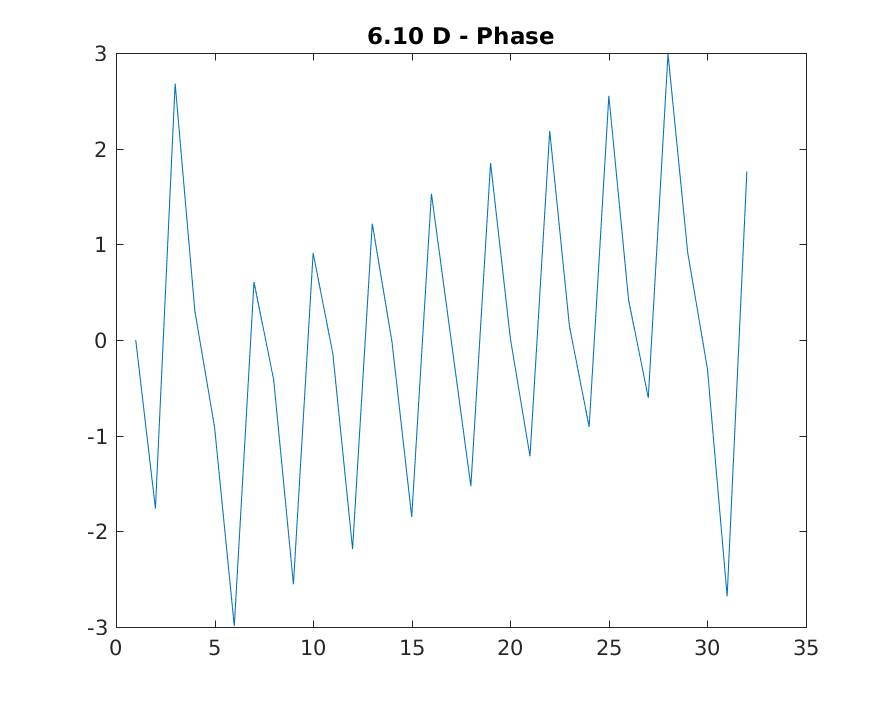
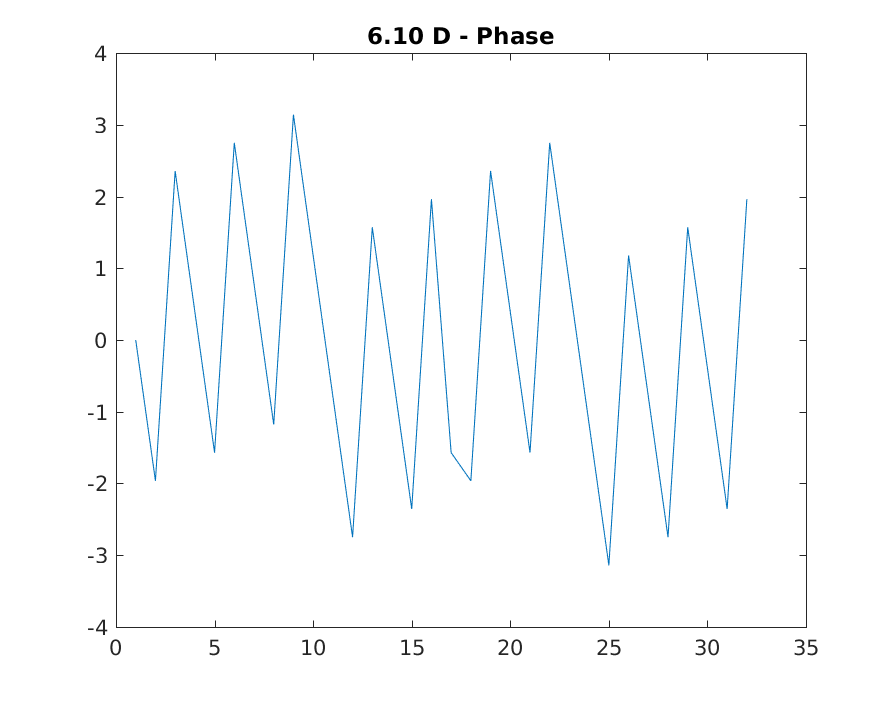
Work on hw5

diff --git a/homework/hw05a.m b/homework/hw05a.m
@@ -53,8 +53,8 @@ m = abs(d);
 p = angle(d);
 figure();
 plot(xval, m);
-title(['6.10 ', q, ' - Magnitude'])
-saveas(gcf, [pwd, '/hw05out/6_10_a_magnitude.png'], 'png');
+title(['6.10 ', q, ' - Amplitude'])
+saveas(gcf, [pwd, '/hw05out/6_10_a_amplitude.png'], 'png');
 
 figure();
 plot(xval, p);
@@ -69,8 +69,8 @@ m = abs(d);
 p = angle(d);
 figure();
 plot(xval, m);
-title(['6.10 ', q, ' - Magnitude'])
-saveas(gcf, [pwd, '/hw05out/6_10_b_magnitude.png'], 'png');
+title(['6.10 ', q, ' - Amplitude'])
+saveas(gcf, [pwd, '/hw05out/6_10_b_amplitude.png'], 'png');
 
 figure();
 plot(xval, p);
@@ -79,14 +79,14 @@ saveas(gcf, [pwd, '/hw05out/6_10_b_phase.png'], 'png');
 
 % 6.10C
 q = 'C';
-x = [1:21, zeros(1, 11)];
+x = [0:20, zeros(1, 11)];
 d = dft(x);
 m = abs(d);
 p = angle(d);
 figure();
 plot(xval, m);
-title(['6.10 ', q, ' - Magnitude'])
-saveas(gcf, [pwd, '/hw05out/6_10_c_magnitude.png'], 'png');
+title(['6.10 ', q, ' - Amplitude'])
+saveas(gcf, [pwd, '/hw05out/6_10_c_amplitude.png'], 'png');
 
 figure();
 plot(xval, p);
@@ -95,14 +95,14 @@ saveas(gcf, [pwd, '/hw05out/6_10_c_phase.png'], 'png');
 
 % 6.10D
 q = 'D';
-x = [1:11, 20-(12:21), zeros(1, 11)];
+x = [0:10, 20-(11:20), zeros(1, 11)];
 d = dft(x);
 m = abs(d);
 p = angle(d);
 figure();
 plot(xval, m);
-title(['6.10 ', q, ' - Magnitude'])
-saveas(gcf, [pwd, '/hw05out/6_10_d_magnitude.png'], 'png');
+title(['6.10 ', q, ' - Amplitude'])
+saveas(gcf, [pwd, '/hw05out/6_10_d_amplitude.png'], 'png');
 
 figure();
 plot(xval, p);
@@ -111,14 +111,14 @@ saveas(gcf, [pwd, '/hw05out/6_10_d_phase.png'], 'png');
 
 % 6.10E
 q = 'E';
-x = [cos(10.*pi.*(1:11)/11), zeros(1,21)];
+x = [cos(10.*pi.*(0:10)/11), zeros(1,21)];
 d = dft(x);
 m = abs(d);
 p = angle(d);
 figure();
 plot(xval, m);
-title(['6.10 ', q, ' - Magnitude'])
-saveas(gcf, [pwd, '/hw05out/6_10_e_magnitude.png'], 'png');
+title(['6.10 ', q, ' - Amplitude'])
+saveas(gcf, [pwd, '/hw05out/6_10_e_amplitude.png'], 'png');
 
 figure();
 plot(xval, p);
@@ -127,14 +127,14 @@ saveas(gcf, [pwd, '/hw05out/6_10_e_phase.png'], 'png');
 
 % 6.10F
 q = 'F';
-x = [cos(9.*pi.*(1:11)/11), zeros(1,21)];
+x = [cos(9.*pi.*(0:10)/11), zeros(1,21)];
 d = dft(x);
 m = abs(d);
 p = angle(d);
 figure();
 plot(xval, m);
-title(['6.10 ', q, ' - Magnitude'])
-saveas(gcf, [pwd, '/hw05out/6_10_f_magnitude.png'], 'png');
+title(['6.10 ', q, ' - Amplitude'])
+saveas(gcf, [pwd, '/hw05out/6_10_f_amplitude.png'], 'png');
 
 figure();
 plot(xval, p);
@@ -151,28 +151,47 @@ n = 1:31;
 x = 1 ./ [1 n];
 d = dft(x);
 m = abs(d);
+p = phase(d);
 figure();
 plot(xval, m);
-title('6.11 A Magnitude')
-saveas(gcf, [pwd, '/hw05out/6_11_a.png'], 'png');
+title('6.11 A amplitude')
+saveas(gcf, [pwd, '/hw05out/6_11_a_magnitude.png'], 'png');
+
+figure();
+plot(xval, p);
+title(['6.11 A - Phase'])
+saveas(gcf, [pwd, '/hw05out/6_11_a_phase.png'], 'png');
 
 % 6.11B
 n = 1:31;
 x = 1 ./ [1 n.^2];
 d = dft(x);
 m = abs(d);
+p = phase(d);
 figure();
 plot(xval, m);
-title('6.11 B Magnitude')
-saveas(gcf, [pwd, '/hw05out/6_11_b.png'], 'png');
+title('6.11 B amplitude')
+saveas(gcf, [pwd, '/hw05out/6_11_b_magnitude.png'], 'png');
+
+figure();
+plot(xval, p);
+title(['6.11 B - Phase'])
+saveas(gcf, [pwd, '/hw05out/6_11_b_phase.png'], 'png');
+
 
 % 6.11C
 n = 1:31;
 x = 1 ./ [1 factorial(n)];
 d = dft(x);
 m = abs(d);
+p = phase(d);
 figure();
 plot(xval, m);
-title('6.11 C Magnitude')
-saveas(gcf, [pwd, '/hw05out/6_11_c.png'], 'png');
+title('6.11 C amplitude')
+saveas(gcf, [pwd, '/hw05out/6_11_c_magnitude.png'], 'png');
+
+figure();
+plot(xval, p);
+title(['6.11 C - Phase'])
+saveas(gcf, [pwd, '/hw05out/6_11_c_phase.png'], 'png');
 
